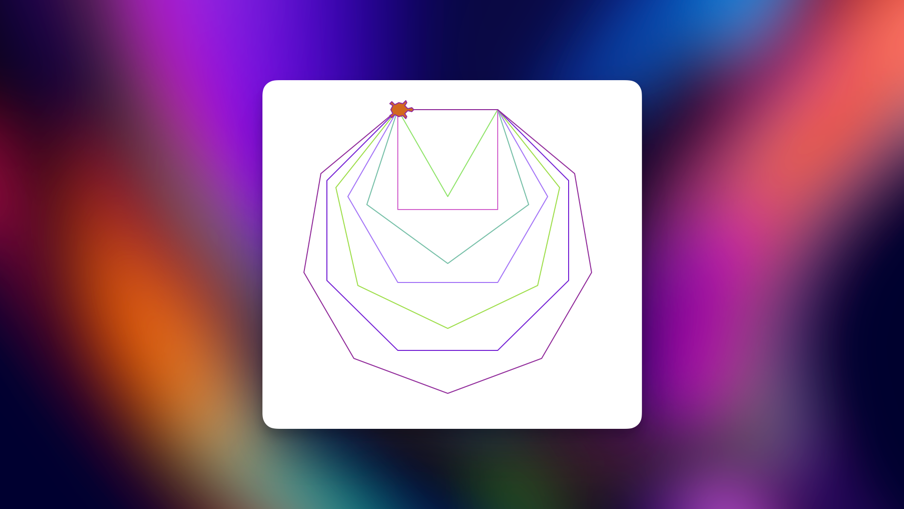
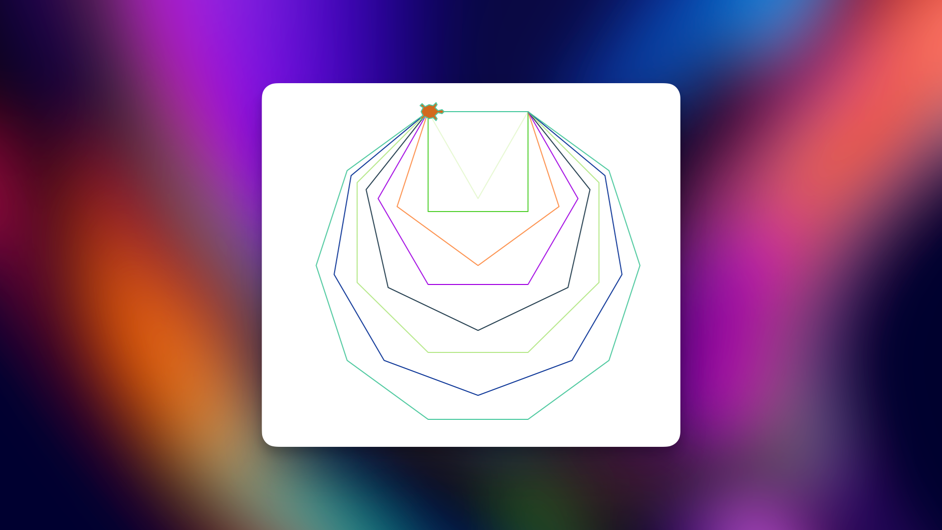
Day 18, features

Changed region(s): [[0.2788, 0.1473, 0.7434, 0.8546], [0.4956, 0.3242, 0.5265, 0.3536]]

diff --git a/Day-18/main.py b/Day-18/main.py
@@ -1,22 +1,28 @@
-from turtle import Turtle, Screen
-import random
-
-number_of_colors = 100
-
-color = ["#"+''.join([random.choice('0123456789ABCDEF') for j in range(6)])
-             for i in range(number_of_colors)]
-
-tim = Turtle()
-tim.shape("turtle")
-tim.color("chocolate")
-
-for corners in range(3, 10):
-    angle = 360 / corners  # 90 degree
-    tim.pencolor(random.choice(color)) # Random color
-    for sides in range(corners):
-        tim.forward(100)
-        tim.right(angle)
+import turtle as t
+import random as rd
+import colorgram
 
 
-screen = Screen()
+tim = t.Turtle()
+tim.hideturtle()
+screen = t.Screen()
+tim.speed(0)
+t.colormode(255)
+
+
+colors = colorgram.extract('hirst-spot-painting.jpg', 10)
+print(colors)
+print(colors[0].rgb)
+rgb = colors[0].rgb
+print(rgb.replace("rgb", ""))
+
+
+
+for i in range(10):
+    tim.pencolor(colors[0].rgb)
+    tim.pensize(10)
+    tim.circle(100)
+    tim.setheading(tim.heading() + 20)
+
+
 screen.exitonclick()

diff --git a/Day-18/m-turtle-graphics.md b/Day-18/m-turtle-graphics.md
@@ -59,7 +59,7 @@ from random import *
 # Syntax
 forward(100)
 random()
-choice()
+choice("hello")
 ```
 
 **Aliases modules**:<br>
@@ -138,19 +138,184 @@ tim = Turtle()
 tim.shape("turtle")
 tim.color("chocolate")
 
-for corners in range(3, 10):
+# range is exclusive.
+for corners in range(3, 11):
     angle = 360 / corners  # 90 degree
     tim.pencolor(random.choice(color)) # Random color
     for sides in range(corners):
         tim.forward(100)
         tim.right(angle)
 
-
 screen = Screen()
 screen.exitonclick()
 ```
 
 ![img_2.png](img_2.png)
+
+### With functions
+Took me more to make the functions and I don't even feel satisfied by how I made them. Will force myself to make the 
+code only with functions.
+
+```python
+from turtle import Turtle, Screen
+from random import choice
+number_of_colors = 10
+
+color = ["#"+''.join([choice('0123456789ABCDEF') for j in range(6)])
+             for i in range(number_of_colors)]
+
+tim = Turtle()
+tim.shape("turtle")
+tim.color("chocolate")
+
+
+def draw_shape(sides):
+    angle = 360 / sides
+    for _ in range(sides):
+        tim.forward(100)
+        tim.right(angle)
+
+
+def multiple_shapes(n):
+    """Start with a triangle"""
+    for corner in range(3, n + 1):
+        tim.pencolor(choice(color))
+        draw_shape(corner)
+
+
+multiple_shapes(10)
+
+screen = Screen()
+screen.exitonclick()
+```
+
+![img_3.png](img_3.png)
+
+## Challenge 4: Random walk
+https://en.wikipedia.org/wiki/Random_walk
+
+1. Draw randomly
+2. Change the thickness of the drawing
+3. Speed te turtle drawing
+4. The lines must be in random colors
+
+```python
+from turtle import Turtle, Screen
+from random import choice
+number_of_colors = 10
+
+color = ["#"+''.join([choice('0123456789ABCDEF') for j in range(6)])
+             for i in range(number_of_colors)]
+
+tim = Turtle()
+tim.hideturtle()
+screen = Screen()
+# screen.screensize(5000, 3000)
+tim.speed(0)
+
+
+def random_direction():
+    """Set tim to a random heading direction"""
+    angles = [0, 90, 180, 270]
+    tim.setheading(choice(angles))
+
+
+def move_randomly():
+    """This function move tim forward by 50 steps with a pensize of 10 and a random color"""
+    tim.pencolor(choice(color))
+    tim.pensize(5)
+    tim.forward(20)
+    random_direction()
+
+
+for i in range(500):
+    move_randomly()
+
+
+screen.exitonclick()
+```
+
+![img_4.png](img_4.png)
+
+## Generate random colors in RGB with tuples
+
+```python
+import turtle as t
+import random as rd
+
+tim = t.Turtle()
+tim.hideturtle()
+screen = t.Screen()
+tim.speed(0)
+t.colormode(255)
+
+
+def random_color():
+    r = rd.randint(0, 255)  # Inclusive range
+    g = rd.randint(0, 255)
+    b = rd.randint(0, 255)
+    return (r, g, b)
+
+
+def random_direction():
+    """Set tim to a random heading direction"""
+    angles = [0, 90, 180, 270]
+    tim.setheading(rd.choice(angles))
+
+
+def move_randomly():
+    """This function move tim forward by 50 steps with a pensize of 10 and a random color"""
+    tim.pencolor(random_color())
+    tim.pensize(5)
+    tim.forward(20)
+    random_direction()
+
+
+for i in range(500):
+    move_randomly()
+
+screen.exitonclick()
+```
+![img_5.png](img_5.png)
+
+## Draw a spirograph
+
+- Only documentation
+
+```python
+import turtle as t
+import random as rd
+
+tim = t.Turtle()
+tim.hideturtle()
+screen = t.Screen()
+tim.speed(0)
+t.colormode(255)
+
+
+def random_color():
+    r = rd.randint(0, 255)  # Inclusive range
+    g = rd.randint(0, 255)
+    b = rd.randint(0, 255)
+    return (r, g, b)
+
+
+def draw_spirograph(gap):
+    for i in range(int(360 / gap)):
+        tim.pencolor(random_color())
+        tim.circle(100)
+        tim.setheading(tim.heading() + gap)
+
+
+draw_spirograph(1)
+
+
+screen.exitonclick()
+
+```
+
+![img_6.png](img_6.png)
+![img_7.png](img_7.png)
 
 ## Final project - The Hirst Painting
 
